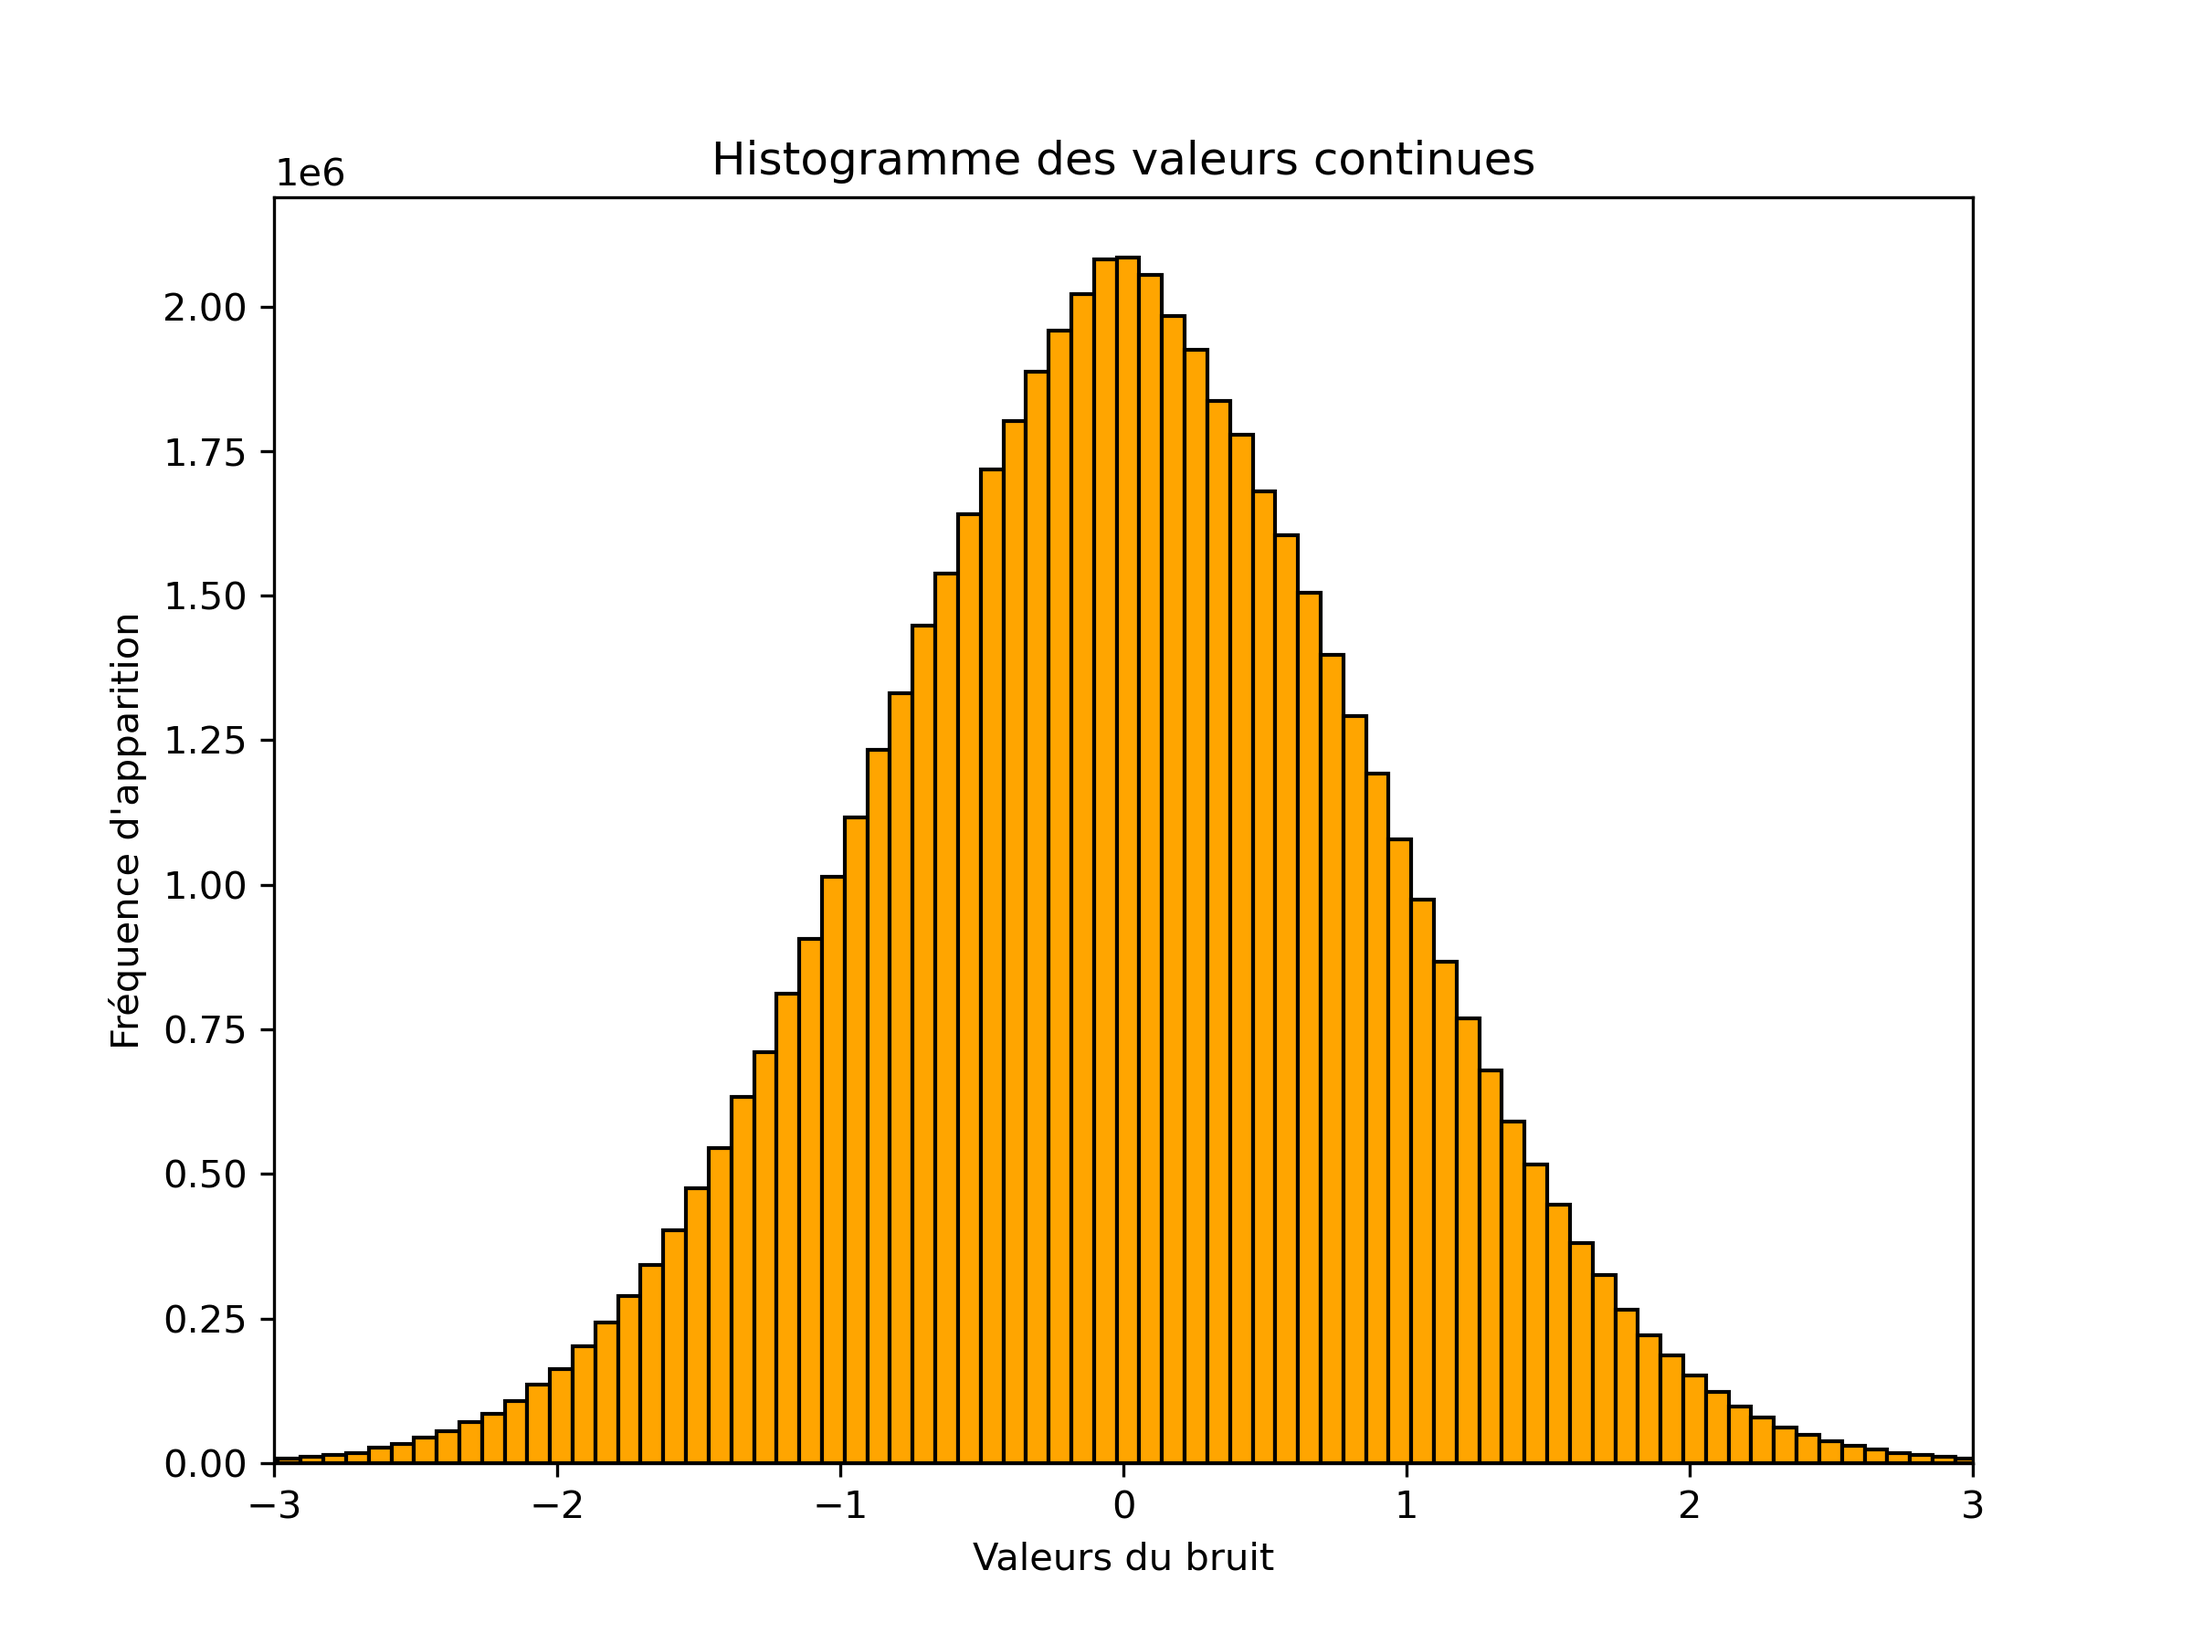
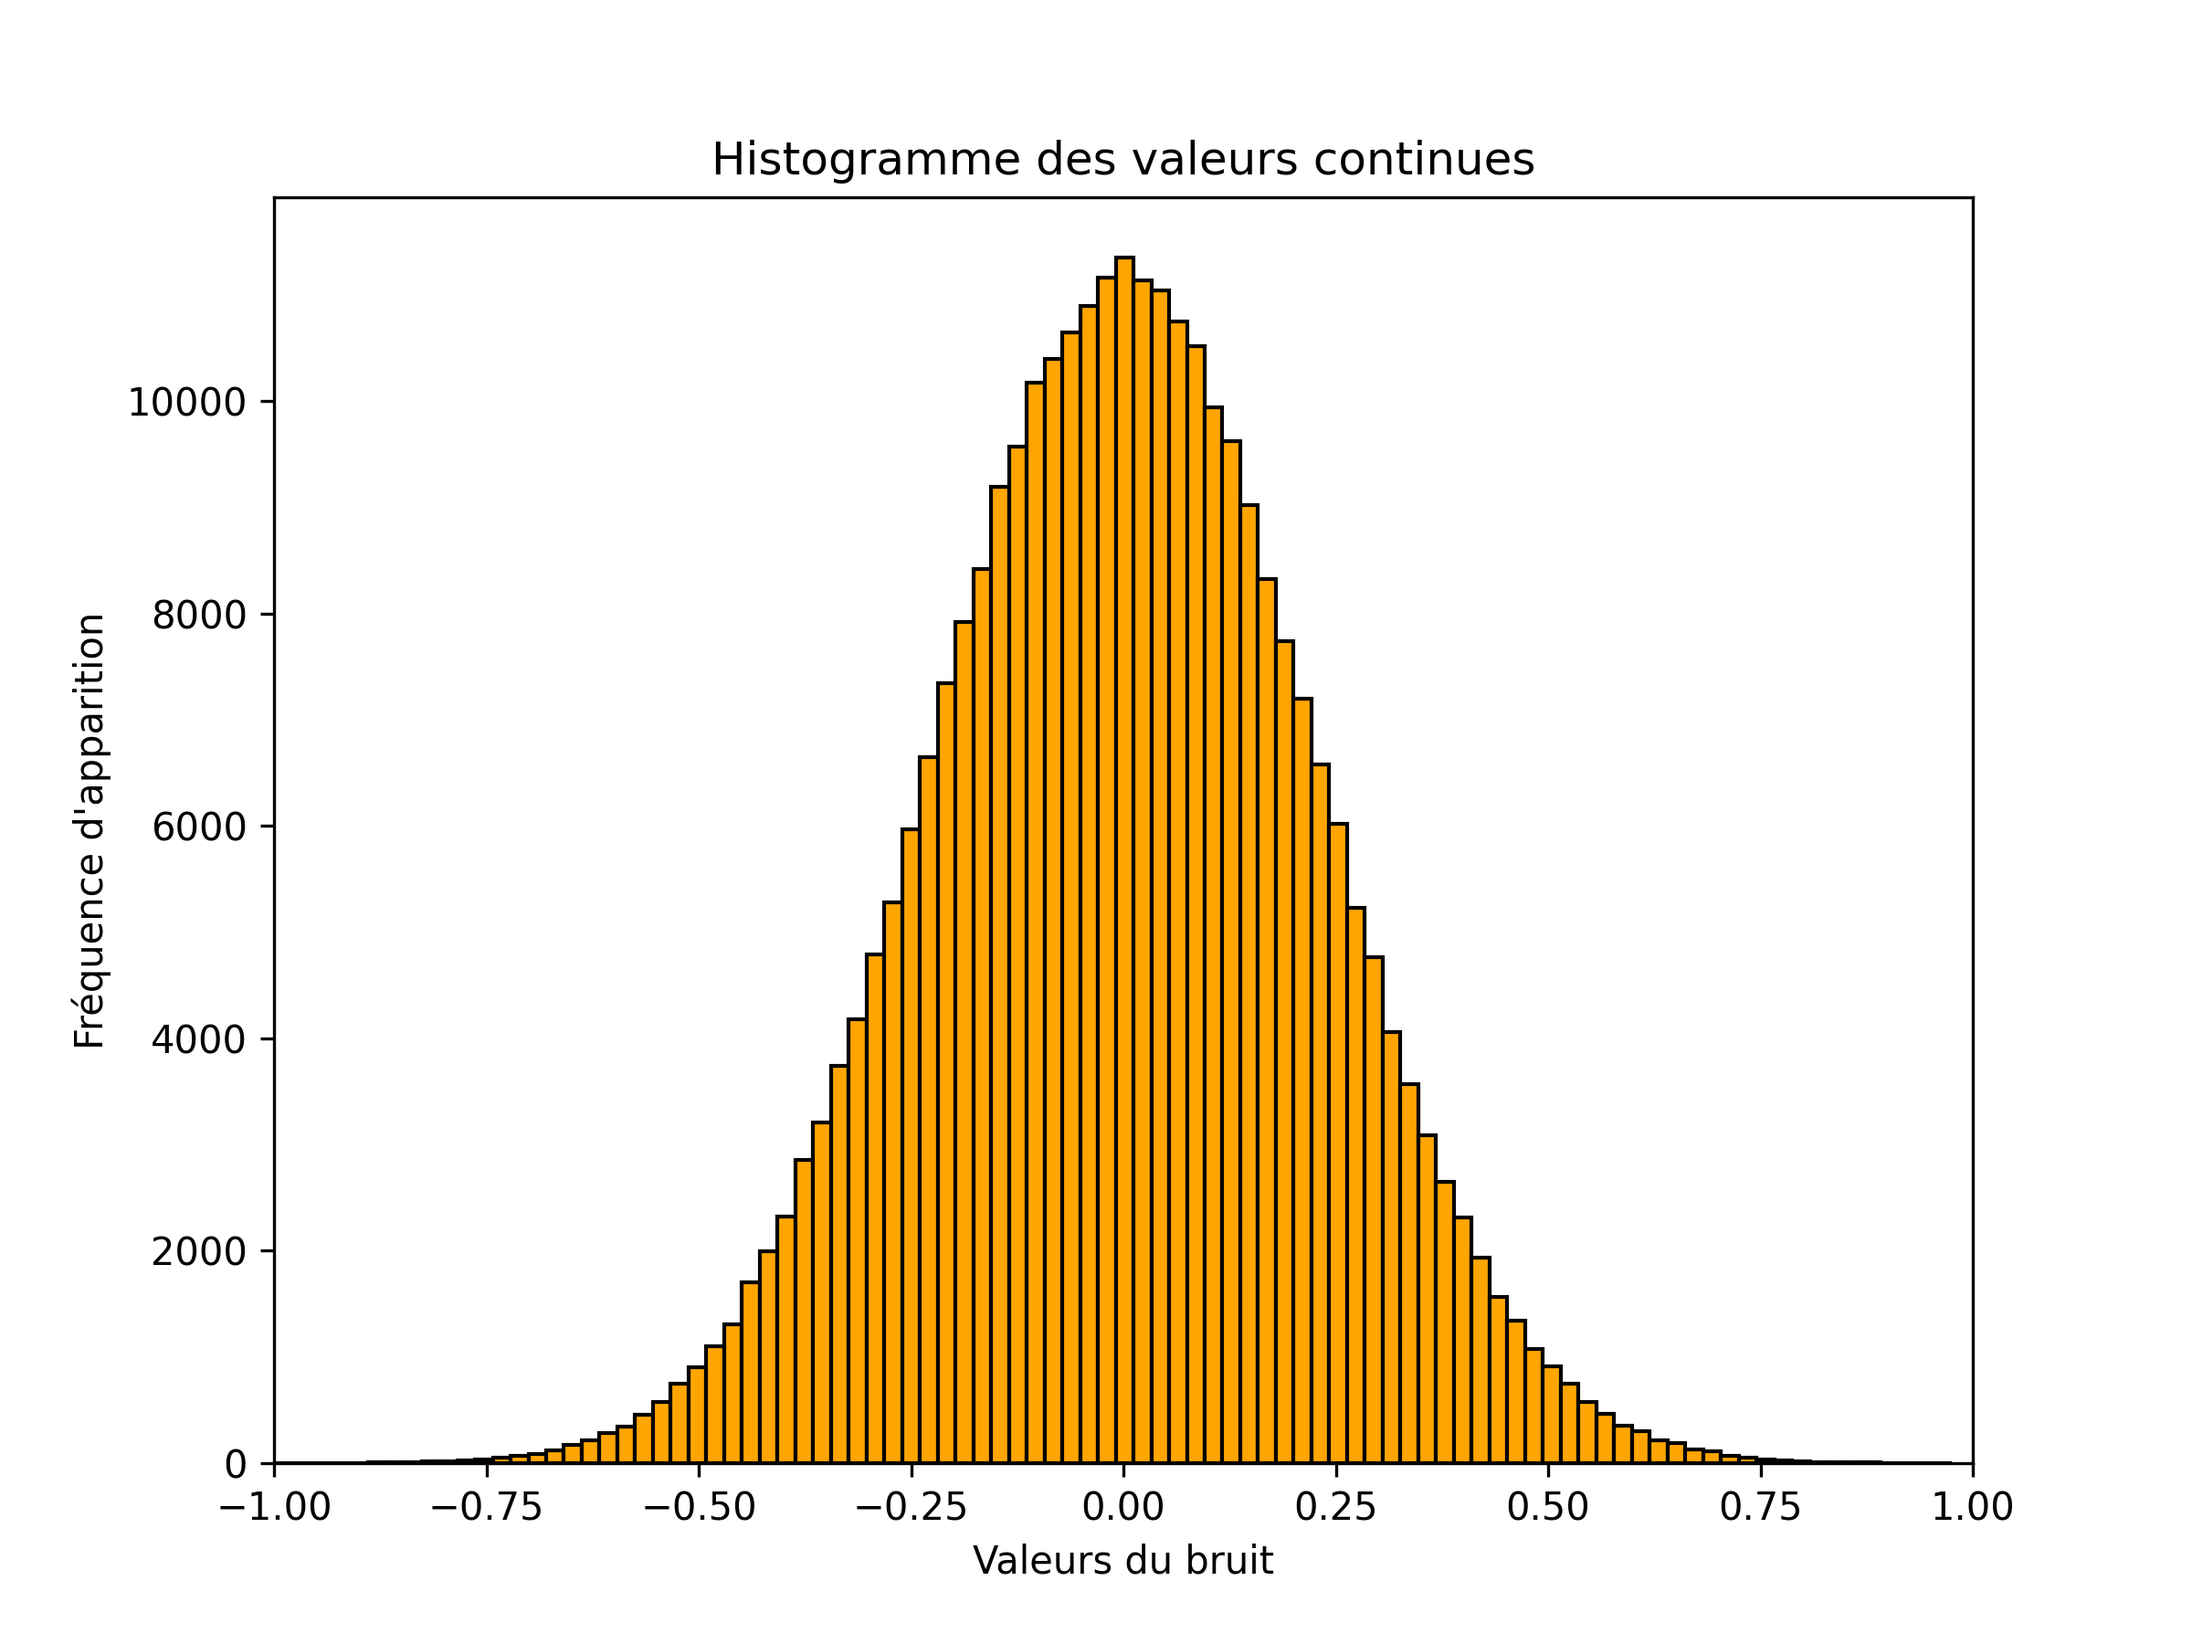
Tests with log scale, and new histogram

diff --git a/src/simulateur/SimulateurTEB.java b/src/simulateur/SimulateurTEB.java
@@ -13,6 +13,7 @@ public class SimulateurTEB {
     private String typeModulation;
     private int nbSimulations; // Number of simulations per SNR
     private static final Boolean affichage = false;
+
     /**
      * Constructeur de la classe SimulateurTEB.
      * Il prend en paramètre le type de modulation et le nombre de simulations.
@@ -25,7 +26,7 @@ public class SimulateurTEB {
     }
 
     /**
-     * Méthode pour générer la courbe de TEB en fonction du SNR.
+     * Méthode pour générer la courbe de TEB en fonction du SNR avec échelle linéaire.
      * À chaque valeur de SNR, la simulation est exécutée plusieurs fois et l'on calcule la moyenne des TEB.
      * @param snrMin Le SNR minimum à tester.
      * @param snrMax Le SNR maximum à tester.
@@ -33,7 +34,7 @@ public class SimulateurTEB {
      * @param fichierCSV Le fichier dans lequel écrire les résultats.
      * @throws Exception Si une erreur survient pendant la simulation.
      */
-    public void genererCourbeTEB(double snrMin, double snrMax, double pasSNR, String fichierCSV) throws Exception {
+    public void genererCourbeTEBLinear(double snrMin, double snrMax, double pasSNR, String fichierCSV) throws Exception {
         List<Float> tebValues = new ArrayList<>();
         List<Double> snrValues = new ArrayList<>();
 
@@ -56,9 +57,9 @@ public class SimulateurTEB {
                         "-ampl", "-1.0", "1.0", // Amplitude
                         "-snrpb", String.valueOf(snr) // SNR par bit
                     });
-                    
+
                     if (affichage) {
-                    	System.out.println("Simulation " + (simulation + 1) + " pour modulation " + typeModulation + " avec SNR = " + snr + " dB");
+                        System.out.println("Simulation " + (simulation + 1) + " pour modulation " + typeModulation + " avec SNR = " + snr + " dB");
                     }
                     // Exécuter la simulation
                     simulateur.execute();
@@ -72,22 +73,91 @@ public class SimulateurTEB {
                 float tebMoyenne = sommeTEB / nbSimulations;
                 tebValues.add(tebMoyenne);
                 snrValues.add(snr);
-                
+
                 if (affichage) {
                     System.out.println("Modulation: " + typeModulation + ", SNR: " + snr + " dB, TEB Moyenne: " + tebMoyenne);
-                    }
+                }
 
                 // Écriture dans le fichier CSV
                 writer.write(typeModulation + "," + snr + "," + tebMoyenne + "\n");
             }
-			if (affichage) {
-	            System.out.println("Les résultats ont été enregistrés dans : " + fichierCSV);
-			}
+
+            if (affichage) {
+                System.out.println("Les résultats ont été enregistrés dans : " + fichierCSV);
+            }
+        }
+    }
+
+    /**
+     * Méthode pour générer la courbe de TEB en fonction du SNR avec échelle logarithmique.
+     * Les valeurs du TEB sont affichées sur une échelle logarithmique, mais calculées normalement.
+     * @param snrMin Le SNR minimum à tester.
+     * @param snrMax Le SNR maximum à tester.
+     * @param pasSNR Le pas entre les valeurs de SNR.
+     * @param fichierCSV Le fichier dans lequel écrire les résultats.
+     * @throws Exception Si une erreur survient pendant la simulation.
+     */
+    public void genererCourbeTEBLogarithmic(double snrMin, double snrMax, double pasSNR, String fichierCSV) throws Exception {
+        List<Float> tebValues = new ArrayList<>();
+        List<Double> snrValues = new ArrayList<>();
+
+        // Ouverture du fichier CSV pour écrire les résultats
+        try (FileWriter writer = new FileWriter(fichierCSV)) {
+            writer.write("Modulation,SNR(dB),TEB(Log10)\n"); // En-tête du fichier CSV
+
+            // Boucle sur les valeurs de SNR
+            for (double snr = snrMax; snr >= snrMin; snr -= pasSNR) {
+                float sommeTEB = 0;
+
+                // Effectuer plusieurs simulations pour chaque SNR
+                for (int simulation = 0; simulation < nbSimulations; simulation++) {
+                    // Créer un nouveau simulateur pour chaque SNR
+                    Simulateur simulateur = new Simulateur(new String[] {
+                        "-mess", "300", // Taille du message
+                        "-form", typeModulation, // Type de modulation
+                        "-seed", String.valueOf(simulation + 1), // Germe différent pour chaque simulation
+                        "-nbEch", "30", // Nombre d'échantillons par bit
+                        "-ampl", "-1.0", "1.0", // Amplitude
+                        "-snrpb", String.valueOf(snr) // SNR par bit
+                    });
+
+                    if (affichage) {
+                        System.out.println("Simulation " + (simulation + 1) + " pour modulation " + typeModulation + " avec SNR = " + snr + " dB");
+                    }
+                    // Exécuter la simulation
+                    simulateur.execute();
+
+                    // Calculer le TEB pour cette simulation
+                    float teb = simulateur.calculTauxErreurBinaire();
+                    sommeTEB += teb;
+                }
+
+                // Calculer le TEB moyen
+                float tebMoyenne = sommeTEB / nbSimulations;
+
+                // Convertir en échelle logarithmique (log10)
+                tebMoyenne = (float) Math.log10(tebMoyenne);
+
+                tebValues.add(tebMoyenne);
+                snrValues.add(snr);
+
+                if (affichage) {
+                    System.out.println("Modulation: " + typeModulation + ", SNR: " + snr + " dB, TEB Moyenne (Log10): " + tebMoyenne);
+                }
+
+                // Écriture dans le fichier CSV
+                writer.write(typeModulation + "," + snr + "," + tebMoyenne + "\n");
+            }
+
+            if (affichage) {
+                System.out.println("Les résultats ont été enregistrés dans : " + fichierCSV);
+            }
         }
     }
 
     /**
      * Main method to run the simulation for different modulations and SNR values.
+     * Permet de générer à la fois des courbes linéaires et logarithmiques.
      * @param args Command line arguments.
      */
     public static void main(String[] args) {
@@ -107,9 +177,14 @@ public class SimulateurTEB {
             SimulateurTEB simTEBRZ = new SimulateurTEB("RZ", nbSimulations);
 
             // Générer les courbes TEB pour chaque modulation et enregistrer dans des fichiers CSV
-            simTEBNRZ.genererCourbeTEB(snrMin, snrMax, pasSNR, "resultats/resultats_NRZ.csv");
-            simTEBNRZT.genererCourbeTEB(snrMin, snrMax, pasSNR, "resultats/resultats_NRZT.csv");
-            simTEBRZ.genererCourbeTEB(snrMin, snrMax, pasSNR, "resultats/resultats_RZ.csv");
+            simTEBNRZ.genererCourbeTEBLinear(snrMin, snrMax, pasSNR, "resultats/resultats_NRZ_linear.csv");
+            simTEBNRZ.genererCourbeTEBLogarithmic(snrMin, snrMax, pasSNR, "resultats/resultats_NRZ_log.csv");
+
+            simTEBNRZT.genererCourbeTEBLinear(snrMin, snrMax, pasSNR, "resultats/resultats_NRZT_linear.csv");
+            simTEBNRZT.genererCourbeTEBLogarithmic(snrMin, snrMax, pasSNR, "resultats/resultats_NRZT_log.csv");
+
+            simTEBRZ.genererCourbeTEBLinear(snrMin, snrMax, pasSNR, "resultats/resultats_RZ_linear.csv");
+            simTEBRZ.genererCourbeTEBLogarithmic(snrMin, snrMax, pasSNR, "resultats/resultats_RZ_log.csv");
 
             System.out.println("Fin de la simulation de la chaîne de transmission");
 

diff --git a/src/transmetteurs/TransmetteurAnalogiqueBruite.java b/src/transmetteurs/TransmetteurAnalogiqueBruite.java
@@ -24,7 +24,7 @@ public class TransmetteurAnalogiqueBruite extends Transmetteur<Float, Float> {
     /** Liste pour stocker les valeurs du bruit */
     public List<Float> bruitsGeneres; // Liste pour stocker les valeurs du bruit
     private static final boolean genererFichierBruit = false; // Variable pour contrôler la génération du fichier bruit
-    private static final boolean afficherInformations = true; // Variable pour contrôler l'affichage des informations
+    private static final boolean afficherInformations = false; // Variable pour contrôler l'affichage des informations
     /**
      * Constructeur de la classe TransmetteurAnalogiqueBruité.
      * @param snr Le rapport signal/bruit (en dB).
@@ -186,26 +186,30 @@ public class TransmetteurAnalogiqueBruite extends Transmetteur<Float, Float> {
             double snr = 10.0; // SNR en dB
 
             // Créer une source fixe
-            //SourceAleatoire source = new SourceAleatoire(100, 1);
-            SourceFixe source = new SourceFixe("000000000000000000000");
+            SourceAleatoire source = new SourceAleatoire(100, 1);
+            //SourceFixe source = new SourceFixe("000000000000000000000");
             Information<Boolean> infoLogique = source.getInformationGeneree();
+            System.out.println("Message logique émis");
             //System.out.println("Message logique émis : " + infoLogique);
             // Émettre un signal analogique sans bruit
             Emetteur emetteur = new Emetteur(Amin, Amax, nbEchantillonsParBit, typeModulation);
-            emetteur.connecter(new SondeAnalogique("Signal Analogique émis sans bruit"));
+            //emetteur.connecter(new SondeAnalogique("Signal Analogique émis sans bruit"));
             emetteur.recevoir(infoLogique);
             Information<Float> infoAnalogiqueSansBruit = emetteur.getInformationEmise();
             //System.out.println("Signal analogique sans bruit : " + infoAnalogiqueSansBruit);
+            System.out.println("Signal analogique émis");
             // Transmettre le signal à travers un canal avec bruit
             TransmetteurAnalogiqueBruite transmetteur = new TransmetteurAnalogiqueBruite(snr, nbEchantillonsParBit);
-            transmetteur.connecter(new SondeAnalogique("Signal Analogique reçu avec bruit"));
+            //transmetteur.connecter(new SondeAnalogique("Signal Analogique reçu avec bruit"));
             transmetteur.recevoir(infoAnalogiqueSansBruit);
             Information<Float> infoAnalogiqueAvecBruit = transmetteur.getInformationEmise();
+            System.out.println("Signal analogique reçu avec bruit");
             //System.out.println("Signal analogique avec bruit : " + infoAnalogiqueAvecBruit);
             // Créer le récepteur et recevoir le signal bruité
             Recepteur recepteur = new Recepteur(Amax, Amin, nbEchantillonsParBit, typeModulation);
-            recepteur.connecter(new SondeLogique("Message logique reçu après bruit", 200));
+            //recepteur.connecter(new SondeLogique("Message logique reçu après bruit", 200));
             recepteur.recevoir(infoAnalogiqueAvecBruit);
+            System.out.println("Message logique reçu après bruit");
             //Information<Boolean> infoLogiqueRecue = recepteur.getInformationEmise();
             //System.out.println("Message logique reçu : " + infoLogiqueRecue);
         } catch (InformationNonConformeException e) {

diff --git a/resultats/generer_histogramme.py b/resultats/generer_histogramme.py
@@ -7,11 +7,11 @@ data = pd.read_csv(file_path, header=None, names=['Values'], dtype=float)  # Cha
 
 # Créer l'histogramme
 plt.figure(figsize=(8, 6))
-plt.hist(data['Values'], bins=2500, color='orange', edgecolor='black')
+plt.hist(data['Values'], bins=100, color='orange', edgecolor='black')
 plt.title('Histogramme des valeurs continues')
 plt.xlabel('Valeurs du bruit')
 plt.ylabel('Fréquence d\'apparition')
-plt.xlim(-3, 3)
+plt.xlim(-1, 1)
 # Enregistrer l'histogramme en tant qu'image
 plt.savefig('histogramme.png', dpi=300)
 
